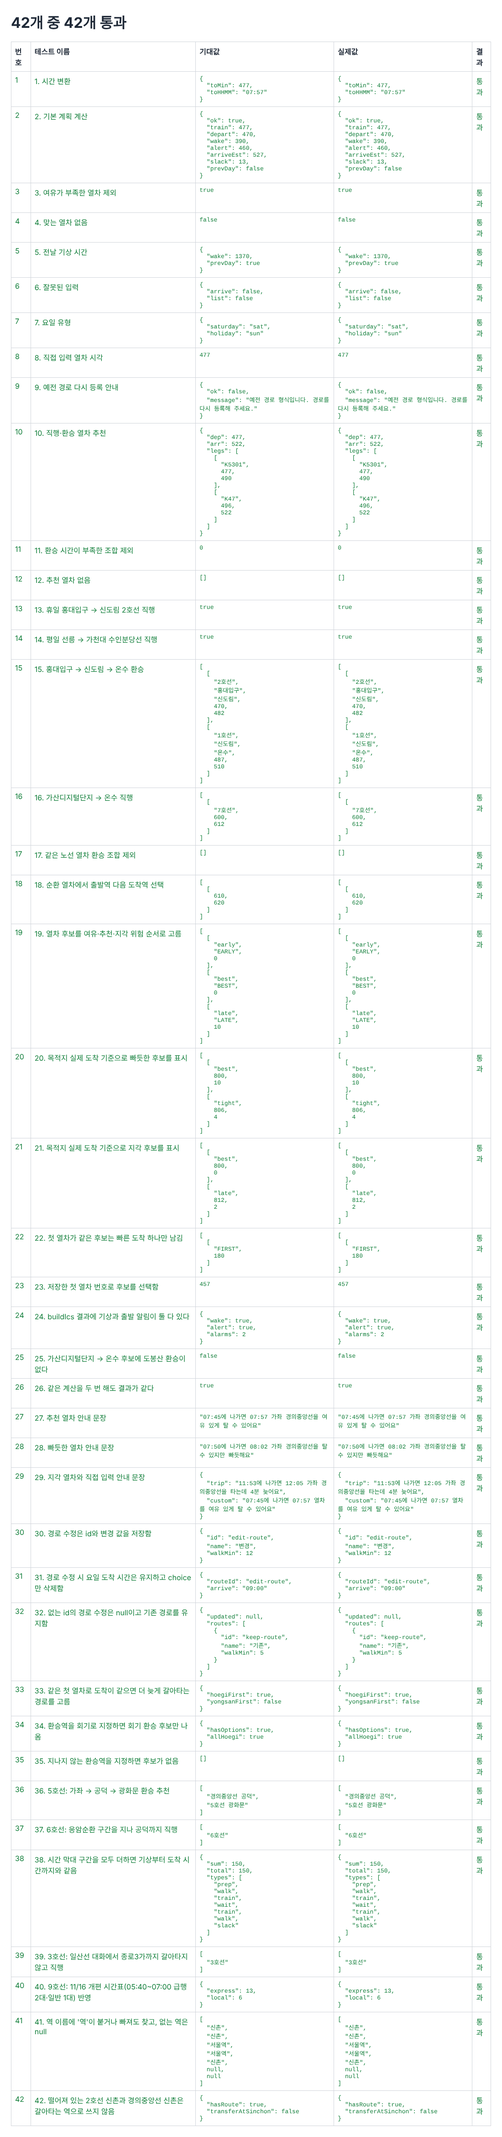
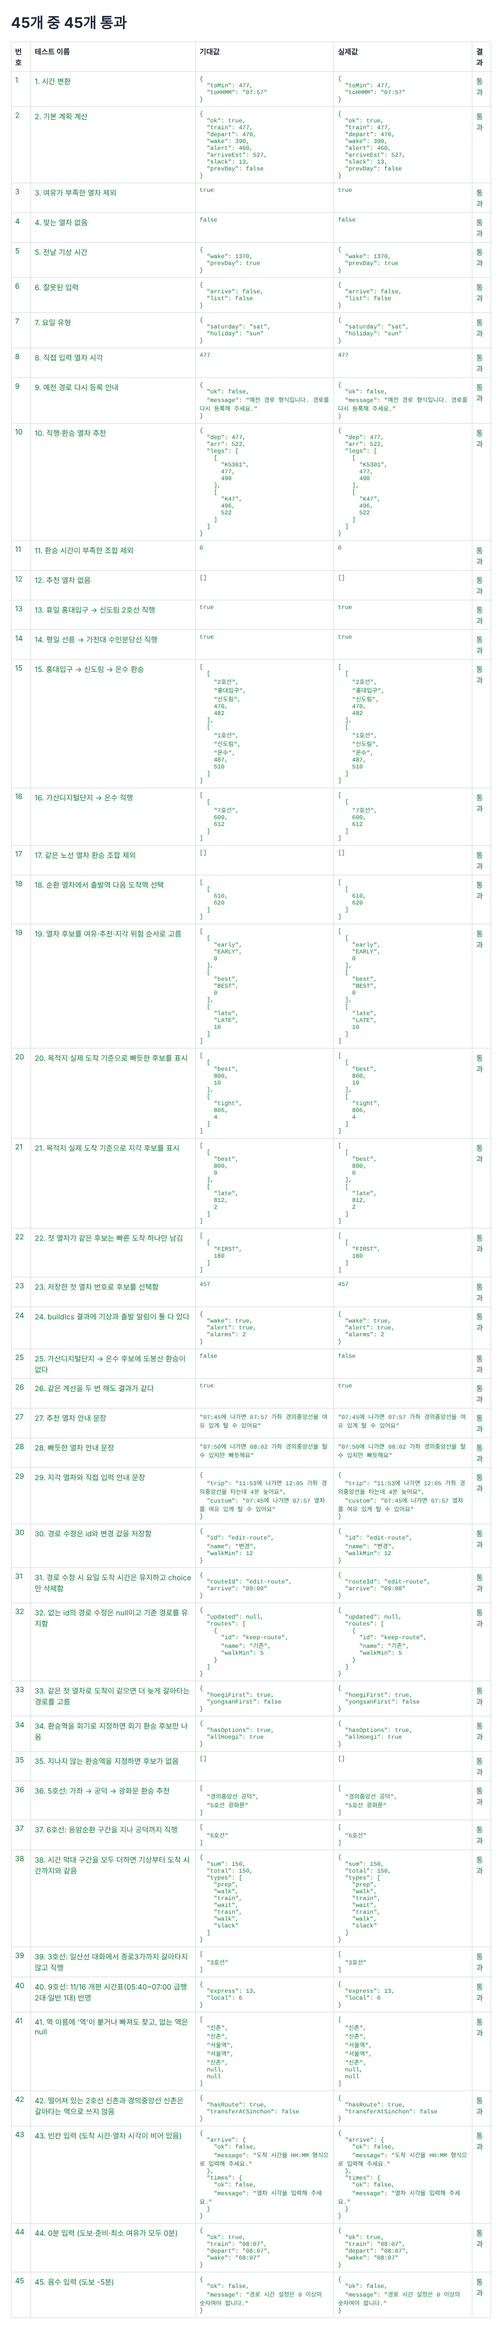
test: 계획서 신뢰성 기준(빈칸·0분·음수) 테스트 추가, README 디버깅·계획 변경 보완

diff --git a/tests/tests.js b/tests/tests.js
@@ -592,6 +592,34 @@ test(
     { hasRoute: true, transferAtSinchon: false }
 );
 
+// 중간고사 계획서 4장 신뢰성 기준: 빈칸·0분 입력에도 계산이 멈추지 않아야 함
+test(
+    '43. 빈칸 입력 (도착 시간·열차 시각이 비어 있음)',
+    {
+        arrive: calcPlan(testRoute, '', 'weekday'),
+        times: calcPlan({ ...testRoute, customTimes: [] }, '09:00', 'weekday')
+    },
+    {
+        arrive: { ok: false, message: '도착 시간을 HH:MM 형식으로 입력해 주세요.' },
+        times: { ok: false, message: '열차 시각을 입력해 주세요.' }
+    }
+);
+
+test(
+    '44. 0분 입력 (도보·준비·최소 여유가 모두 0분)',
+    (() => {
+        const plan = calcPlan({ ...testRoute, walkMin: 0, prepMin: 0, slackMin: 0 }, '09:00', 'weekday');
+        return { ok: plan.ok, train: toHHMM(plan.train), depart: toHHMM(plan.depart), wake: toHHMM(plan.wake) };
+    })(),
+    { ok: true, train: '08:07', depart: '08:07', wake: '08:07' }
+);
+
+test(
+    '45. 음수 입력 (도보 -5분)',
+    calcPlan({ ...testRoute, walkMin: -5 }, '09:00', 'weekday'),
+    { ok: false, message: '경로 시간 설정은 0 이상의 숫자여야 합니다.' }
+);
+
 const passedCount = testResults.filter((result) => result.passed).length;
 document.getElementById('summary').textContent =
     `${testResults.length}개 중 ${passedCount}개 통과`;

diff --git a/README.md b/README.md
@@ -82,7 +82,7 @@ xdg-open index.html      # Linux
 
 ### 테스트 실행 방법
 
-저장소 폴더에서 아래 명령으로 `tests.html`을 엽니다. 화면 맨 위에 "42개 중 42개 통과"가 나오면 성공입니다.
+저장소 폴더에서 아래 명령으로 `tests.html`을 엽니다. 화면 맨 위에 "45개 중 45개 통과"가 나오면 성공입니다.
 
 ```bash
 open tests.html          # macOS
@@ -144,12 +144,12 @@ xdg-open tests.html      # Linux
 
 | 번호 | 계획서 기능 | 상태 | 확인 근거 | 완성하지 못한 부분과 이유 |
 |---|---|---|---|---|
-| F1 | 목적지별 경로 등록 | 🔶 | 학교·아르바이트처럼 경로를 여러 개 저장, 걷는 시간·준비·최소 여유 등록, 시간표 없는 구간은 HH:MM 직접 입력과 형식 오류 안내 (테스트 6·8), 평일·토·일 시간표 자동 적용 | **버스 경로 등록은 하지 않았습니다.** 배차 간격으로 다니는 버스는 정해진 시각표가 없어 열차와 같은 방식으로 계산할 수 없고, 지하철 노선을 넓히는 것을 우선했습니다. 버스 시각을 알면 "직접 입력"으로 대신할 수 있습니다. 노선·역·방면을 고르는 방식은 출발역·도착역 입력으로 바꿨습니다(7장). |
+| F1 | 목적지별 경로 등록 | 🔶 | 학교·아르바이트처럼 경로를 여러 개 저장, 걷는 시간·준비·최소 여유 등록, 시간표 없는 구간은 HH:MM 직접 입력과 형식 오류 안내 (테스트 6·8), 평일과 토요일·휴일 시간표 자동 적용 | 계획서의 **"버스는 평균 이동 시간을 등록"** 부분은 구현하지 않고 계획을 바꿨습니다(7장). 계획서는 토요일 시간표를 따로 쓰기로 했지만, 레일포털에 토요일 데이터가 비어 있는 노선이 많아 **토요일은 휴일 시간표**로 계산합니다. 노선·역·방면을 고르는 방식은 출발역·도착역 입력으로 바꿨습니다(7장). |
 | F2 | 요일별 입력·저장 | 🔶 | 요일마다 경로와 도착 시각만 입력, localStorage에 저장되어 새로고침해도 유지, 시간 입력칸이 잘못된 시각을 받지 않음 | **요일마다 준비 시간을 따로 바꾸는 기능은 없습니다.** 준비 시간은 경로에 저장하는 값이라, 다른 준비 시간이 필요한 요일은 준비 시간만 다른 경로를 하나 더 만들어 고르면 됩니다. 요일마다 입력칸을 늘리면 "요일마다 입력 2개 이하"라는 사용성 목표와 부딪혀서 이 방식을 택했습니다. |
-| F3 | 열차 선택·출발·기상 계산 | ✅ | 계획서 예시(도착 09:00, 열차 07:47·07:57·08:07, 탑승 후 50분, 도보 7분, 준비 80분, 최소 여유 10분)와 결과(07:57 열차, 08:47 도착, 여유 13분, 출발 07:50, 기상 06:30, 알림 07:40)가 **테스트 2와 똑같이** 나옴. 열차 추천은 환승 1회까지 확장 | 출발 알림은 출발 10분 전으로 고정했습니다(계획서에는 사용자가 바꿀 수 있다고 적음). 버스 계산은 F1과 같은 이유로 제외했습니다. |
+| F3 | 열차 선택·출발·기상 계산 | ✅ | 계획서 예시(도착 09:00, 열차 07:47·07:57·08:07, 탑승 후 50분, 도보 7분, 준비 80분, 최소 여유 10분)와 결과(07:57 열차, 08:47 도착, 여유 13분, 출발 07:50, 기상 06:30, 알림 07:40)가 **테스트 2와 똑같이** 나옴. 열차 추천은 환승 1회까지 확장 | 출발 알림은 출발 10분 전으로 고정했습니다(계획서에는 사용자가 바꿀 수 있다고 적음). 버스 계산은 F1과 같이 계획을 바꿨습니다(7장). |
 | F4 | 요일별 계획표 | ✅ | 기상·출발·탑승 열차·도착 예상·여유 표시, 처음 열면 오늘 요일 선택, 전날로 넘어가는 기상은 "(전날)" 표시. 계획서 예시(월 00:30 탑승, 도보 20분, 준비 80분 → 기상 22:50 전날)가 **테스트 5와 같음** | 월~일을 한 표에 모두 보여 주던 계획을 **요일 탭으로 하루씩** 보여 주도록 바꿨습니다(7장). |
 | F5 | 요일별 알람 목록 | ✅ | 요일 탭을 누르면 그날의 기상·출발 알림·출발만 시간순으로 표시되고 다른 요일 알람은 섞이지 않음 | 전날 울리는 기상 알람은 일정 요일 탭에 "(전날)"로 표시합니다. 캘린더 파일에는 실제로 울리는 전날 요일로 들어갑니다. |
-| F6 | 캘린더 내보내기 | ✅ | 저장된 모든 요일의 기상·출발 알림을 매주 반복(RRULE)과 알림(VALARM)이 있는 `nagalsigan.ics` 하나로 저장 (테스트 24) | 없음 |
+| F6 | 캘린더 내보내기 | ✅ | 저장된 모든 요일의 기상·출발 알림을 매주 반복(RRULE)과 알림(VALARM)이 있는 `nagalsigan.ics` 하나로 저장 (테스트 24). 계획서의 확인 방법대로 macOS 캘린더에 가져와 매주 반복 일정과 알림이 등록되는 것을 확인 | 계획서는 출발 알림만 내보내기로 했지만 기상 알림도 함께 넣었습니다. |
 | F7 (선택) | 알람 목록 복사 | ❌ | — | 캘린더 내보내기(F6)로 알람을 옮기는 목적이 해결되어 우선순위를 낮췄습니다. |
 | F8 (선택) | 놓쳤을 때 다음 열차 | ✅ | 추천 열차 다음 열차를 "빠듯"(주황) 또는 "지각 N분"(빨강)으로 함께 보여 주고, 다른 열차를 골라 다시 계산할 수 있음 (테스트 19~21) | 없음 |
 | F9 (선택) | 경로·시간표 자동 등록 (ODsay API) | 🔶 | ODsay 대신 공공 시간표(레일포털·서울 열린데이터)를 미리 받아 두고, 출발역·도착역만 넣으면 환승까지 자동으로 찾게 함 | 실행 중에 API를 부르지 않는 방식으로 바꿨습니다. 앱이 외부 서비스에 기대지 않아 실패 위험이 없고, 계획서의 "HTML을 직접 열어도 동작" 조건도 지킵니다. 집·학교 위치로 걷는 시간을 자동으로 넣는 부분은 하지 않았습니다. |
@@ -161,7 +161,7 @@ xdg-open tests.html      # Linux
 | 정확성 | 실제로 쓰던 알람 시간과 일치 | 가좌 07:57 경의중앙선 → 용산 08:16 1호선 → 온수 08:42로, 실제 통학 열차와 같은 열차가 추천됨 (8장 예시) ✅ |
 | 실행 환경 | 서버 없이 PC 브라우저에서 동작 | `index.html`을 직접 열어도 동작 ✅. 데모를 위해 GitHub Pages 배포를 추가 |
 | 사용성 | 경로 등록 후 요일마다 입력 2개 이하, 요일을 누르면 그날 알람만 | 요일마다 경로·도착 시각 2개(경로가 하나면 1개) ✅ |
-| 신뢰성 | 자정 넘김·잘못된 값·맞는 열차 없음에도 멈추지 않음 | 계산 함수는 오류 대신 `{ ok: false, message }`를 돌려주고 화면에 이유를 표시. 테스트 4·5·6·12 ✅ |
+| 신뢰성 | 정상·자정 넘김·빈칸·0분 입력·맞는 열차 없음에도 멈추지 않음 (console.assert로 테스트) | 계산 함수는 오류 대신 `{ ok: false, message }`를 돌려주고 화면에 이유를 표시. 계획서의 다섯 상황을 정상(테스트 2)·자정 넘김(5)·빈칸(43)·0분 입력(44)·맞는 열차 없음(4)으로 확인하고, 잘못된 형식(6)·음수(45)도 확인 ✅ |
 | 개인정보 | 일정·경로를 외부 서버로 보내지 않음 | localStorage에만 저장, 실행 중 외부 요청 없음 ✅ |
 
 ## 7. 계획 변경 사항
@@ -176,9 +176,11 @@ xdg-open tests.html      # Linux
 | 월~일 계획을 한 표에 표시 | 요일 탭으로 하루씩 표시, 그날의 **일어나서 도착까지 시간 막대** 추가 | 휴대폰 화면에서 7일 표는 글자가 너무 작았습니다. 하루씩 보여 주는 대신, 준비·이동·여유가 한눈에 보이는 막대로 이 앱이 지도 앱과 다른 점(일어나는 순간부터 계산)을 드러냈습니다. |
 | 열차 하나만 계산 | 이른 열차 2개·추천·다음 열차(빠듯/지각)를 보여 주고 고를 수 있게 함 | 선택 기능 F8(놓쳤을 때 다음 열차)을 같은 화면에서 해결했습니다. |
 | (없음) | **환승역 지정**, **경로 수정**, 같은 이름의 다른 역 구분 | 친구에게 써 보게 했더니 실제로 타는 경로(가좌→회기→월계)가 나오지 않았습니다. 시간표상 같은 도착 시각이어도 사람마다 갈아타는 역이 달라서 환승역을 고를 수 있게 했고, 값 하나 바꾸려고 경로를 지웠다 다시 만들지 않도록 수정 기능을 넣었습니다. |
-| 버스 평균 이동 시간 등록, 요일별 준비 시간 변경 | 하지 않음 | 6장 MVP 체크리스트의 F1·F2 참고 |
+| 버스는 정류장까지 걷는 시간·평균 이동 시간·대기 여유로 계산 (F1·F3) | 버스 계산은 구현하지 않고 지하철 열차 추천과 노선 확대에 집중 | 열차 추천을 직행에서 환승 1회까지 넓히고 지원 노선을 3개에서 12개로 늘리는 작업이 실제 사용자(친구들)에게 더 필요하다고 판단해 우선순위를 조정했습니다. 정해진 시각에 다니는 버스는 "직접 입력"에 시각을 적어 계산할 수 있지만, 계획서의 평균 이동 시간 방식은 다음에 추가할 기능으로 남겼습니다. |
+| 토요일은 토요일 시간표로 계산 | 토요일은 휴일 시간표로 계산 | 레일포털 API에 토요일 데이터가 비어 있는 노선이 많아, 노선마다 기준이 달라지지 않도록 휴일 시간표로 통일했습니다. |
+| 요일마다 준비 시간을 따로 변경 | 준비 시간은 경로별로 저장 | 요일마다 입력칸이 늘면 "요일마다 입력 2개 이하" 목표와 부딪혀서, 준비 시간이 다른 요일은 경로를 하나 더 만들어 고르게 했습니다(6장 F2). |
 | 웹사이트 배포는 범위에서 제외 | **GitHub Pages로 배포** | 기말 발표를 데모 사이트로 시연하라는 안내가 있었고, 정적 사이트라 서버 없이 배포할 수 있었습니다. Docker도 검토했지만 서버가 필요 없는 앱이라 쓰지 않았습니다. |
-| console.assert로 테스트 | `tests.html`에서 42개 테스트를 표로 보여 주고 `console.assert`도 함께 실행 | 통과·실패를 한눈에 보고 제출용 결과 화면을 남기기 위해서입니다. |
+| console.assert로 테스트 | `tests.html`에서 45개 테스트를 표로 보여 주고 `console.assert`도 함께 실행 | 통과·실패를 한눈에 보고 제출용 결과 화면을 남기기 위해서입니다. |
 
 ## 8. 계산 방법
 
@@ -207,16 +209,16 @@ xdg-open tests.html      # Linux
 
 ## 9. 테스트
 
-`tests.html`을 열면 42개 테스트가 실행되고, 번호·테스트 이름·기대값·실제값·결과가 표로 나옵니다. 같은 결과가 브라우저 개발자 도구 콘솔에도 `console.assert`로 남습니다. 실행 방법은 [4장](#4-설치실행-방법)을 보세요.
+`tests.html`을 열면 45개 테스트가 실행되고, 번호·테스트 이름·기대값·실제값·결과가 표로 나옵니다. 같은 결과가 브라우저 개발자 도구 콘솔에도 `console.assert`로 남습니다. 실행 방법은 [4장](#4-설치실행-방법)을 보세요.
 
-**결과: 42개 중 42개 통과**
+**결과: 45개 중 45개 통과**
 
 ![테스트 결과](docs/screenshots/05-tests.png)
 
 | 분류 | 테스트 |
 |---|---|
 | 기본 계산 | 1 시간 변환 · 2 기본 계획 계산 · 3 여유가 부족한 열차 제외 · 5 전날 기상 시간 |
-| **예외 처리** | 4 맞는 열차 없음 · 6 잘못된 입력("9시", "07:5x") · 9 예전 형식 경로 다시 등록 안내 · 12 없는 역이면 추천 없음 · 32 없는 경로 수정 · 35 지나지 않는 환승역 · 41 없는 역 이름 거부 |
+| **예외 처리** | 4 맞는 열차 없음 · 6 잘못된 입력("9시", "07:5x") · 9 예전 형식 경로 다시 등록 안내 · 12 없는 역이면 추천 없음 · 32 없는 경로 수정 · 35 지나지 않는 환승역 · 41 없는 역 이름 거부 · 43 빈칸 입력 · 45 음수 입력 |
 | 입력·요일 | 7 요일 유형 · 8 직접 입력 열차 시각 |
 | 열차 추천 | 10 직행·환승 추천 · 11 환승 시간이 부족한 조합 제외 · 17 같은 노선 환승 제외 · 18 순환 열차 도착역 선택 |
 | 실제 노선 | 13 휴일 홍대입구→신도림 2호선 · 14 평일 선릉→가천대 수인분당선 · 15 홍대입구→신도림→온수 환승 · 16 가산디지털단지→온수 7호선 |
@@ -230,6 +232,7 @@ xdg-open tests.html      # Linux
 | 3·9호선 | 39 일산선 대화 → 종로3가 직통 · 40 9호선 11/16 개편 시간표(출근 시간대 급행 2대·일반 1대) 반영 |
 | 역 이름 | 41 '신촌역'·'서울'처럼 '역'이 붙거나 빠져도 찾고 없는 역은 거부 · 42 떨어져 있는 2호선 신촌과 경의중앙선 신촌을 환승역으로 쓰지 않음 |
 | 캘린더 | 24 .ics에 기상·출발 알림 포함 |
+| 계획서 신뢰성 기준 | 43 빈칸 입력(도착 시간·열차 시각) · 44 0분 입력(도보·준비·여유 0분)에도 정상 계산 · 45 음수 입력 거부 |
 
 ## 10. 리팩토링 전/후
 
@@ -262,27 +265,44 @@ xdg-open tests.html      # Linux
 
 ### Copilot Chat 활용
 
-먼저 `.github/copilot-instructions.md`에 프로젝트 규칙(순수 HTML·CSS·JS, `file://`에서 동작, 실행 중 API 호출 금지, 시간은 분 단위 정수, 오류는 `{ ok: false, message }`로 반환)을 적어 두어, 어떤 대화에서 요청해도 같은 구조로 코드가 나오게 했습니다. 기능은 한 번에 만들어 달라고 하지 않고 "경로 등록 → 계산 → 화면 → 캘린더" 순으로 나눠 요청했고, 요청할 때마다 계획서처럼 목적·입력 예시·기대 결과·예외 상황을 함께 적었습니다. 그래서 계획서의 예시(07:57 열차, 기상 06:30)가 그대로 테스트 2번이 되었습니다.
+먼저 `.github/copilot-instructions.md`에 프로젝트 규칙(순수 HTML·CSS·JS, `file://`에서 동작, 실행 중 API 호출 금지, 시간은 분 단위 정수, 오류는 `{ ok: false, message }`로 반환)을 적어 두어, 어떤 대화에서 요청해도 같은 구조로 코드가 나오게 했습니다. 이 파일은 저장소를 만든 직후 가장 먼저 추가했습니다(커밋 `0a5d459`).
 
-대화가 길어지면 맥락이 끊겨서, 지금까지의 결정과 남은 작업을 인수인계 문서(`docs/인수인계.md`, 개인정보가 들어 있어 제출 전 저장소에서 삭제)로 정리해 새 대화에 넘겼습니다. 넘긴 뒤에는 "추천 열차를 고르는 기준이 뭐야?" 같은 질문을 먼저 던져 Copilot이 문서를 제대로 이해했는지 확인하고 작업을 시작했습니다. 시간표 API 응답을 `trips.js` 모양으로 합치는 `tools/merge_kric.js`도 응답 예시를 보여 주고 Copilot Chat으로 작성했습니다.
+기능은 계획서 7장에 적은 대로 작게 나눠, 함수의 목적·입력 예시·기대 결과·예외 조건을 주석으로 먼저 적고 Copilot의 제안을 받아 구현했습니다. 아래는 실제로 `js/time.js` 맨 위에 남아 있던 요청 주석입니다(구현 후 커밋 `73ce404`에서 정리). 같은 방식으로 경로 저장 → 등록 화면 → 요일별 입력 → 계획표 → 알람 목록 → 캘린더 순으로 요청했고, 계획서의 예시(07:57 열차, 기상 06:30)가 그대로 테스트 2번이 되었습니다.
+
+```js
+// 이 파일에 시간 변환 함수를 만들어 줘.
+// 1. toMin("07:57") → 477. "HH:MM" 문자열을 자정부터 몇 분인지로 바꿈.
+//    - 형식이 틀리거나 시가 0~23, 분이 0~59를 벗어나면 null 반환
+// 4. parseTimeList("07:47, 07:57,08:07") → [467, 477, 487]
+//    - 잘못된 항목이 하나라도 있으면 { ok: false, message: "'7:6x'는 시간 형식이 아닙니다" }
+// 함수마다 한 줄 주석을 달아 줘.
+```
+
+Copilot이 직접 작성한 커밋에는 `Co-authored-by: Copilot` 표시가 남는데, 커밋 60여 개 중 20개에 이 표시가 있습니다(열차 후보 선택 화면, 요일 탭 화면, 아래 디버깅 사례 1·2, 계산 함수 분리와 캐시, 경로 수정 기능). 대화가 길어져 맥락이 끊길 때는 결정 사항과 남은 작업을 인수인계 문서로 정리해 새 대화에 넘기고, "추천 열차를 고르는 기준이 뭐야?" 같은 질문으로 Copilot이 제대로 이해했는지 먼저 확인했습니다.
 
 ### 디버깅
 
-가장 기억에 남는 사례는 "빠듯"과 "지각"의 구분입니다. 13:30까지 가야 하는 날 13:26에 도착하는 열차가 "지각 위험"으로 표시됐습니다. 증상과 함께 계산에 쓴 값(도착 시간, 최소 여유, 마지막 도보)을 Copilot에 보여 주자, 최소 여유를 지키지 못하는 경우를 모두 "지각"으로 처리하고 있다는 원인을 찾았습니다. 도착 시간 안이면 "빠듯", 넘으면 "지각"으로 나누고, 같은 실수가 다시 생기지 않도록 테스트 20·21을 추가했습니다. 그 밖의 사례는 아래 표에 정리했습니다.
+디버깅은 ① 같은 증상이 다시 나오는 입력값을 정리하고 ② 계산에 쓰인 중간값을 확인해 원인을 좁히고 ③ 고친 뒤 같은 버그를 잡는 테스트를 추가하는 순서로 했습니다. 증상만 말하지 않고 계산에 쓰인 값을 함께 Copilot에 보여 주는 것이 원인을 빨리 찾는 데 가장 효과적이었습니다.
+
+**사례 1. 늦지 않는 열차가 "지각 위험"으로 표시됨 (Copilot Chat, 커밋 `ce42ad9`)**
+13:30까지 가야 하는 날, 목적지에 13:26에 도착하는 열차가 "지각 위험"으로 나왔습니다. 도착 시간·최소 여유·마지막 도보 시간을 함께 Copilot에 보여 주자, 코드가 "역 도착 시각 ≤ 도착 시간 − 최소 여유 − 마지막 도보" 하나만 보고 넘으면 모두 지각으로 처리한다는 원인이 드러났습니다. 목적지 실제 도착 시각(`arriveDest`)을 따로 계산해 도착 시간 이내면 "빠듯", 넘으면 "지각"으로 나누고 테스트 20·21을 추가했습니다.
+
+**사례 2. 도봉산까지 갔다가 돌아오는 "지각 148분" 후보 (Copilot Chat, 커밋 `ca623a7`)**
+가산디지털단지→온수에서 7호선을 타고 반대쪽 끝인 도봉산까지 갔다가 돌아오는 후보가 나왔습니다. 다음 열차 후보를 "추천보다 늦게 출발하는가"만 보고 골랐기 때문입니다. "더 늦게 나가는데 더 일찍 도착하는 경로가 있으면 버린다"는 기준(`efficientCandidates`)을 넣고 테스트 25를 추가했습니다.
+
+**사례 3. 시간표 데이터 자체의 오류 (데이터 검증 스크립트)**
+1호선 동인천 급행(K1004)이 서지 않는 소사·온수에 서는 것으로 나왔습니다. 코레일 엑셀 변환 데이터와 레일포털 데이터를 열차 단위로 비교하는 스크립트를 만들어 보니, 엑셀 변환에서 통과역 시각까지 정차로 읽었고(부천 05:47 → 소사 05:48) 일부 열차는 역 순서가 뒤집혀 있었습니다. 1호선·경의중앙선도 레일포털로 받도록 통일한 뒤(10장 리팩토링 5), 12개 노선 전체 검사 스크립트로 2호선 평일 지선 누락, 자정 넘긴 시각(`24:01:00`) 누락, 5호선 원본 시각 오타를 더 찾아 고쳤습니다(12장 데이터 검증).
+
+그 밖의 사례는 아래 표에 정리했습니다.
 
 | 증상 | 원인 | 수정 |
 |---|---|---|
-| 캘린더 버튼을 눌러도 아무 일도 없음 | `handleIcsDownload` 함수가 `renderPlan` 안에 들어가 있어 이벤트에 연결되지 않음 | 함수를 바깥으로 꺼내 버튼에 연결 |
-| 직접 입력한 열차 시각이 새로고침 후 깨짐 | 열차 시각을 분(숫자)으로 저장하고 불러올 때는 "HH:MM"으로 읽음 | 저장 형식을 "HH:MM" 문자열로 통일 |
-| 일정이 있는 날에 캘린더 버튼이 안 보임 | 버튼 표시 조건이 반대로 되어 있었음 | 계획이 하나라도 있으면 버튼을 보이게 수정 |
-| 13:30 도착인데 13:26 도착 열차가 "지각 위험"으로 표시 | 최소 여유를 못 지키는 경우를 모두 "지각"으로 처리 | 도착 시간 안이면 "빠듯", 넘으면 "지각"으로 구분하고 테스트 추가 |
-| 가산디지털단지→온수에서 7호선으로 도봉산까지 갔다가 돌아오는 "지각 148분" 후보가 나옴 | 추천 열차 바로 다음 출발이면 경로가 비효율적이어도 후보로 넣음 | 더 늦게 출발하고 더 일찍 도착하는 경로가 있으면 제외하고 테스트 25 추가 |
-| 친구 경로(가좌→회기→월계)가 추천에 안 나오고 용산·서울역 환승만 나옴 | 같은 1호선 열차를 용산·청량리·회기 어디서 갈아타도 도착 시간이 같아서, 처음 찾은 용산만 남김 | 도착이 같으면 늦게 갈아타는 경로를 남기고, 환승역을 직접 지정하는 옵션 추가 (테스트 33~35) |
-| 1호선 동인천 급행(K1004)이 소사·온수에도 서는 것으로 나오고, 서울역에서 천안으로 가는 K1945가 신창에서 출발하는 것으로 나옴 | 코레일 엑셀을 변환할 때 열차가 그냥 지나가는 역의 통과 시각까지 정차로 읽었고, 일부 열차는 역 순서가 뒤집힘. 그 결과 실제로는 탈 수 없는 경로가 추천됨 | 1호선·경의중앙선도 다른 노선처럼 레일포털 API로 받아 데이터 만드는 방법을 하나로 통일 (10장 리팩토링 5). 바뀐 데이터에 맞춰 테스트 23 수정 |
-| 평일에 까치산·신설동 등에서 2호선 경로가 나오지 않음 | 레일포털이 2호선 지선(성수지선·신정지선) 8개 역의 평일 시간표를 빈 응답으로 줌. 12개 노선 전체 검증 중에 발견 | 2호선은 지선까지 있는 서울 열린데이터로 받도록 바꿈 (12장 데이터 검증) |
-| 2호선 막차가 자정 직전 역에서 끊기고, 자정 넘어 도착하는 경로가 나오지 않음 | 서울 열린데이터는 자정을 넘긴 시각을 `24:01:00`처럼 적는데, 합치는 스크립트가 24시 이상을 잘못된 값으로 버림 | 29시까지 받아 다음 날 새벽으로 계산하도록 수정 (평일 2호선 36편이 자정 넘어까지 이어짐) |
-| 5호선 열차가 아차산 다음 1분 만에 마곡에 도착하는 것처럼 나옴 | 레일포털 원본의 시각 오타 (마곡 09:04가 08:04로, 고덕 08:05가 08:50으로 적힘) | 합치는 스크립트가 같은 구간을 달리는 다른 열차들과 15분 넘게 어긋나는 정차를 자동으로 빼도록 함 |
-| "신촌역"을 입력하면 목록에 없다고 거절되고, 2호선 신촌에서 경의중앙선으로 갈아타는 경로가 나옴 | 데이터의 역 이름은 "신촌"뿐이었고, 떨어져 있는 두 신촌역이 같은 이름이라 한 역으로 합쳐짐 (양평도 같은 문제) | 입력한 역 이름의 '역'을 자동으로 맞추고, 경의중앙선 쪽을 `신촌(경의중앙선)`·`양평(경의중앙선)`으로 분리 (테스트 41·42) |
+| 캘린더 버튼을 눌러도 아무 일도 없음 | `handleIcsDownload` 함수가 `renderPlan` 안에 들어가 있어 이벤트에 연결되지 않음 | 함수를 바깥으로 꺼내 연결 (커밋 `759a978`). 이를 계기로 `renderPlan`을 나눔(10장 리팩토링 1) |
+| 친구 경로(가좌→회기→월계)가 추천에 안 나오고 용산 환승만 나옴 | 같은 1호선 열차를 어디서 갈아타도 도착이 같아서 처음 찾은 용산만 남김 | 도착이 같으면 늦게 갈아타는 경로를 남기고, 환승역 지정 옵션 추가 (테스트 33~35) |
+| "신촌역" 입력이 거절되고, 2호선 신촌에서 경의중앙선으로 갈아타는 경로가 나옴 | 데이터의 역 이름은 "신촌"뿐이었고, 떨어져 있는 두 신촌역이 한 역으로 합쳐짐 (양평도 같음) | '역' 자동 보정, 경의중앙선 쪽을 `신촌(경의중앙선)`·`양평(경의중앙선)`으로 분리 (테스트 41·42) |
+| 직접 입력한 열차 시각이 새로고침 후 깨짐 | 저장은 분(숫자), 불러올 때는 "HH:MM"으로 읽음 | 저장 형식을 "HH:MM" 문자열로 통일 (커밋 `5d250c7`) |
+| 2호선 막차가 자정 직전 역에서 끊김 | 서울 열린데이터는 자정 넘긴 시각을 `24:01:00`처럼 적는데 24시 이상을 버림 | 29시까지 받아 다음 날 새벽으로 계산 |
+| 5호선 열차가 아차산 다음 1분 만에 마곡에 도착 | 레일포털 원본 시각 오타 (마곡 09:04 → 08:04 등) | 다른 열차와 15분 넘게 어긋나는 정차를 자동으로 뺌 |
 
 ### 코드 리뷰 반영
 
@@ -360,9 +380,9 @@ xdg-open tests.html      # Linux
 
 | 항목 | 결과 |
 |---|---|
-| 정의했던 MVP 기능이 모두 정상 동작하는가? | ✅ F3~F6, F8 완성. F1·F2는 부분 완성(버스, 요일별 준비 시간)으로 6장에 이유를 적음 |
+| 정의했던 MVP 기능이 모두 정상 동작하는가? | ✅ F3~F6, F8 완성. F1·F2는 부분 완성(버스, 토요일 시간표, 요일별 준비 시간)으로 6·7장에 이유를 적음 |
 | 예상 가능한 예외 상황이 처리되어 있는가? | ✅ 잘못된 시각·없는 역·맞는 열차 없음·지나지 않는 환승역·없는 경로 수정·자정 넘김을 테스트로 확인 (9장 예외 처리 11개) |
-| 작성한 테스트가 모두 통과하는가? | ✅ 42개 중 42개 통과 |
+| 작성한 테스트가 모두 통과하는가? | ✅ 45개 중 45개 통과 |
 | README가 현재 코드 상태와 일치하는가? | ✅ 데이터 출처·파일 구성·실행 명령을 마지막 변경에 맞춤 |
 | 사용하지 않는 코드·주석이 정리되었는가? | ✅ 정의만 있고 부르지 않는 함수 0개, 디버깅용 `console.log` 0개 (저장 실패 경고 `console.warn` 2개만 남김) |
 | 커밋 이력이 이해하기 쉽게 정리되어 있는가? | ✅ `feat`·`fix`·`refactor`·`docs` 같은 머리말로 무엇을 바꿨는지 구분 (초기 몇 개는 머리말 없음) |
@@ -375,7 +395,7 @@ xdg-open tests.html      # Linux
 | 의존성이 모두 기록되었는가? | ✅ 앱은 외부 패키지가 없어 `requirements.txt`·`package.json`이 필요 없음. 데이터 도구는 Python·Node.js 기본 모듈만 사용 (3장) |
 | `.gitignore`로 불필요한 파일을 제외했는가? | ✅ 내려받은 원본(`tools/kric_out/`), `__pycache__/`, `.DS_Store` 제외 |
 | 실행 방법이 README에 명확히 안내되어 있는가? | ✅ 4장 (데모 사이트, 클론 후 `index.html` 열기, 테스트 실행) |
-| 다른 컴퓨터에서 클론해서 실행해도 문제없는가? | ✅ 새 폴더에 클론해 `index.html`과 `tests.html`을 열어 오류 없이 42개 통과 확인 |
+| 다른 컴퓨터에서 클론해서 실행해도 문제없는가? | ✅ 새 폴더에 클론해 `index.html`과 `tests.html`을 열어 오류 없이 45개 통과 확인 |
 | 배포된 사이트가 최신인가? | ✅ `main`에 push하면 GitHub Pages가 자동으로 다시 배포 |
 
 ### 최종 코드 리뷰
@@ -392,7 +412,7 @@ xdg-open tests.html      # Linux
 2. **환승 1회 경로 탐색**: 역마다 지나는 열차 목록(역 인덱스)을 만들어 직행과 환승 1회 조합을 찾고, "더 늦게 나가는데 더 일찍 도착하는 경로가 있으면 버린다"는 규칙으로 쓸모없는 후보를 걸러 냅니다. 같은 계산 결과는 `WeakMap`에 저장해 요일 시간을 바꿀 때 걸리던 시간을 0.3~1초에서 0.2초 이하로 줄였습니다.
 3. **공공 데이터 2종을 하나로 합치는 도구**: 레일포털과 서울 열린데이터를 받아 역 이름을 맞추고(서울/서울역, 괄호 속 부역명), 떨어진 같은 이름 역(신촌·양평)을 구분하고, 원본의 시각 오타를 자동으로 걸러 `trips.js`를 만듭니다. 다시 실행해도 같은 결과가 나옵니다.
 4. **일어나는 순간부터 계산**: 지도 앱은 집을 나서는 순간부터 시간을 재지만, 이 앱은 기상→준비→도보→열차→환승→도보→여유를 한 막대로 보여 주고, 알람을 매주 반복되는 캘린더 일정으로 내보냅니다.
-5. **브라우저에서 보는 테스트 42개**: 계획서의 예시 계산이 그대로 테스트가 되었고, 버그를 고칠 때마다 같은 버그를 잡는 테스트를 추가했습니다.
+5. **브라우저에서 보는 테스트 45개**: 계획서의 예시 계산이 그대로 테스트가 되었고, 버그를 고칠 때마다 같은 버그를 잡는 테스트를 추가했습니다.
 
 ## 15. 한계와 개선 방향
 
@@ -403,7 +423,7 @@ xdg-open tests.html      # Linux
 | 실시간 지연·임시 증편·파업 미반영 | 실시간 API는 "지금 몇 분 뒤 도착"만 알려 줘서 내일 아침 계산에는 쓸 수 없습니다. | 출발 직전에만 실시간 도착 정보를 보조로 보여 주기 |
 | 9호선 일부 급행은 가양·염창 시각이 몇 분 어긋날 수 있음 | 레일포털 원본에 가양·염창 시각이 당산보다 늦게 적힌 급행이 있습니다. 15분 넘게 어긋나는 오타만 자동으로 고치고, 이 정도 차이는 그대로 두었습니다. | 서울 열린데이터 9호선 시간표와 대조 |
 | 신분당선, 경춘선, 서해선, GTX 등 미포함 | 사용자가 많은 서울 지하철 중심으로 넣었고, 데이터 크기(현재 6.5MB)를 늘리지 않으려고 뺐습니다. | 같은 도구로 노선을 추가하고, 노선별 파일로 나눠 필요한 노선만 불러오기 |
-| 버스 미지원, 걷는 시간은 직접 입력 | 버스는 정해진 시각표가 없고, 위치 기반 도보 계산은 외부 지도 API가 필요합니다. | 버스는 배차 간격 평균으로 계산하는 방식 검토 |
+| 버스 미지원, 걷는 시간은 직접 입력 | 버스는 계획을 바꿔 지하철에 집중했고(7장), 위치 기반 도보 계산은 외부 지도 API가 필요합니다. | 계획서대로 버스 평균 이동 시간에 대기 여유를 더하는 계산 추가 |
 | 기기마다 따로 등록 | 저장소가 브라우저 localStorage라서 다른 기기에서는 다시 등록해야 합니다. | 경로를 파일·링크로 내보내고 불러오기 |
 | `ui.js`가 736줄로 가장 김 | 화면 기능을 계속 덧붙였습니다. | 계획 화면·경로 등록·요일 입력으로 파일 나누기 |
 
